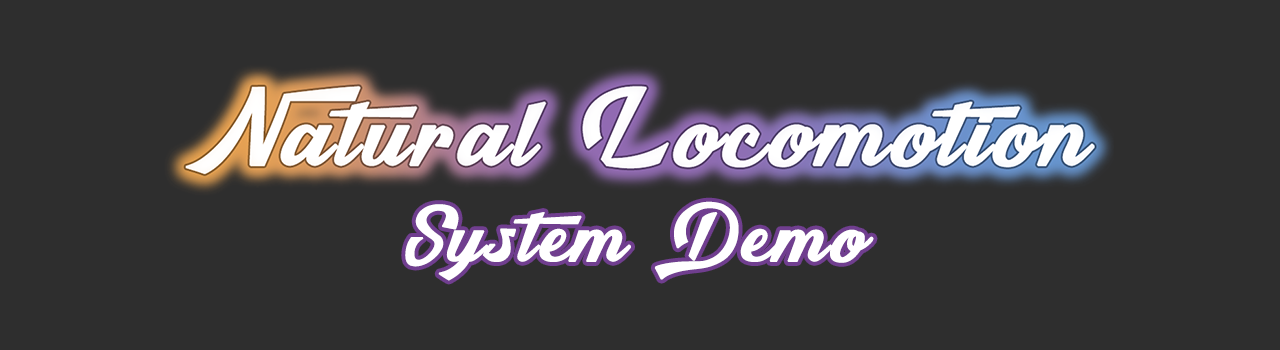
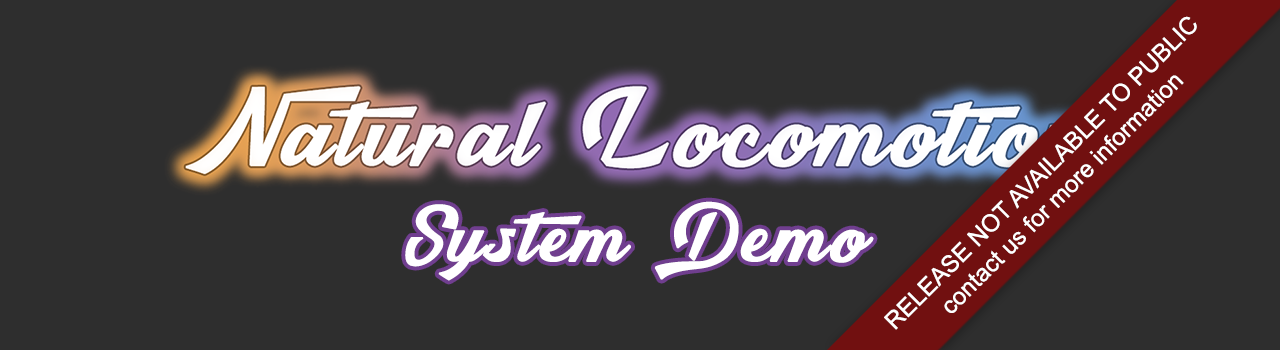
Under Construction Updates 2

Changed region(s): [[0.625, 0.0, 1.0, 1.0]]

diff --git a/nlm.html b/nlm.html
@@ -16,17 +16,16 @@ permalink: /nlm/
   Virtual Reality environments.  The concepts behind the NLM system are derived
   from observing the natural motions we all take when moving around in real life.
 <br>
-<br>
-  Imagine that you're holding a VR controller close to your body, while keeping
+  <!-- Imagine that you're holding a VR controller close to your body, while keeping
   your arm tucked against your body start moving as if you were going to take a
   small step forward.  In that motion, notice that the controller has moved from
   its original position and along the same direction that you took your step.
   With this information, our NLM system translates your motions directly into
-  virtual space.
+  virtual space. -->
 <h4/>
 <br>
 <center>
-  <h5>How is this different from what's currently being used?</h5>
+  <h5>What does Natural Locomtion do differently that currently used systems?</h5>
 </center>
 <h4>
   One of the biggest challenges when incorporating a free movement type system
@@ -40,16 +39,15 @@ permalink: /nlm/
   system is gaining popularity, it comes with a high wall of discomfort for
   many users.  Given enough exposure you might reduce your discomfort but it is
   not guaranteed and the adjustment period is rarely short.
-<br>
-<br>
+<p>
   Natural Locomotion is designed in a way to avoid discomfort and has an
   adjustment period that is extremely short to none at all.  Part  of the
   reason discomfort occurs is due to the player's virtual body moving while
   they are not at all.  This disconnect of the real body to the virtual body
   leaves the player expecting to feel motion when none is occurring, resulting
-  in discomfort.  Since the NLM system is having the player incorporate body
-  movement into its use, the player is connecting with their virtual body in a
-  way that avoids discomfort.
+  in discomfort.  The Natural Locomotion system incorporates body movement and
+  connects the player to their virtual body, minmizing discomfort to zero when
+  properly used.
 </h4>
 <center>
   <h5>Where can I try Natural Locmotion?</h5>
@@ -90,4 +88,4 @@ target="_blank">
 style="border: 5px solid #ffbb21;max width: 100%;"
 alt="Natural Locomotion Demo">
 </a>
-Download (.zip)
+Pubic Release Date: TBA

diff --git a/games.html b/games.html
@@ -1,0 +1,27 @@
+---
+layout: page
+title: Digital Diceworks
+permalink: /games/
+---
+<br>
+<Center>
+  <h1> Games </h1>
+</Center
+
+<a href="../files/NaturalLocomotionDemo.zip"
+target="_blank">
+<img src="/assets/img/NLMDemo.png"
+style="border: 5px solid #ffbb21;max width: 100%;"
+alt="Natural Locomotion Demo">
+</a>
+Public Release Date: TBA
+<br>
+<br>
+<a href="../files/NinjaOpsPrototypeDemo.zip"
+target="_blank">
+<img src="/assets/img/NinjaOpsDemo.png"
+style="border: 5px solid #ffbb21;max width: 100%;"
+alt="Ninja Ops Demo">
+</a>
+<br>
+Public Release Date: TBA

diff --git a/jobs.html b/jobs.html
@@ -5,15 +5,4 @@ permalink: /jobs/
 ---
 <br>
 <br>
-<h3>We are currently looking to expand our team in the follow positions:</h3>
-<br>
-<h3>3D Character Artist</h3>
-<hr>
-Description
-<br>
-<br>
-<h3>3D Animator</h3>
-<hr>
-Description
-<br>
-<br>
+<img src="../assets/img/underconstruction.png" alt="Under Construciton">

diff --git a/_sass/_variables.scss b/_sass/_variables.scss
@@ -22,7 +22,7 @@ body {
 $base-color				 : rgba(#222,0.8);
 $header-color			 : rgba(#000,0.8);
 $sub-item-color			 : rgba(#000, 0.1);
-$header-margin			 : #F45145;
+$header-margin			 : #ffbb21; //menubar color
 $menu-top				 : white;
 $menu-height			 : 70px;
 $menu-overflow			 : #353535;

diff --git a/_includes/header.html b/_includes/header.html
@@ -68,8 +68,7 @@
       <!-- {% endif %}
     </div><!-- /.header-title-wrap -->
   <!-- </div><!-- /.header-title -->
-<!-- </div><!-- /.entry-header --> --> --> --> --> -->
-
+<!-- </div><!-- /.entry-header -->
 
 <nav id="menu" style="display: none">
   <ul>

diff --git a/_sass/_rouge.scss b/_sass/_rouge.scss
@@ -7,7 +7,7 @@
 	@include rounded(3px);
 	pre {
 		position: relative;
-		margin: 0;
+		margin: 20px;
 		padding: 1em;
 	}
 	.lineno { padding-right: 24px; color: #8f908a;}

diff --git a/blog.html b/blog.html
@@ -1,0 +1,8 @@
+---
+layout: page
+title: DDW News
+permalink: /blog/
+---
+<br>
+<br>
+<img src="../assets/img/underconstruction.png" alt="Under Construciton">
